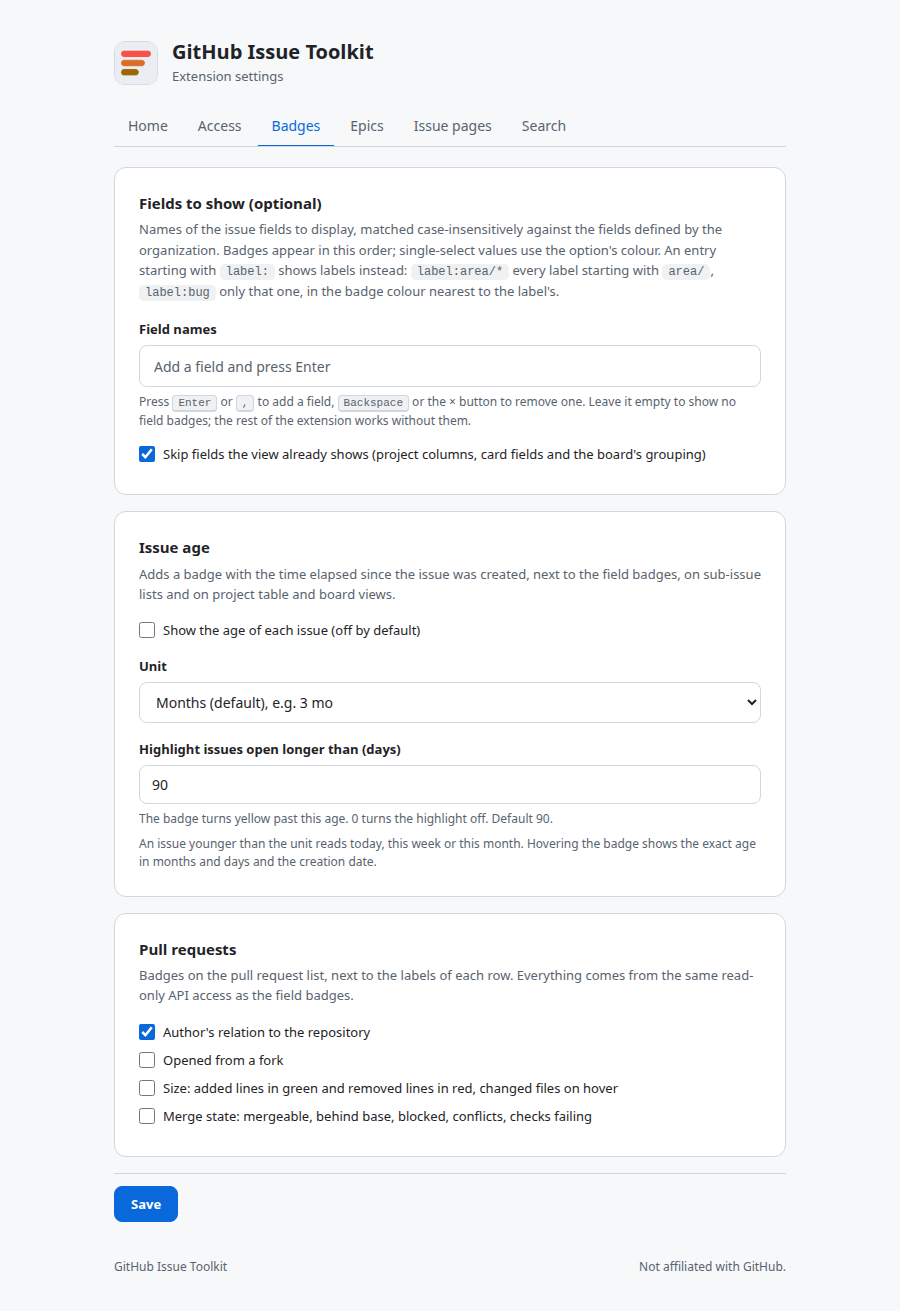
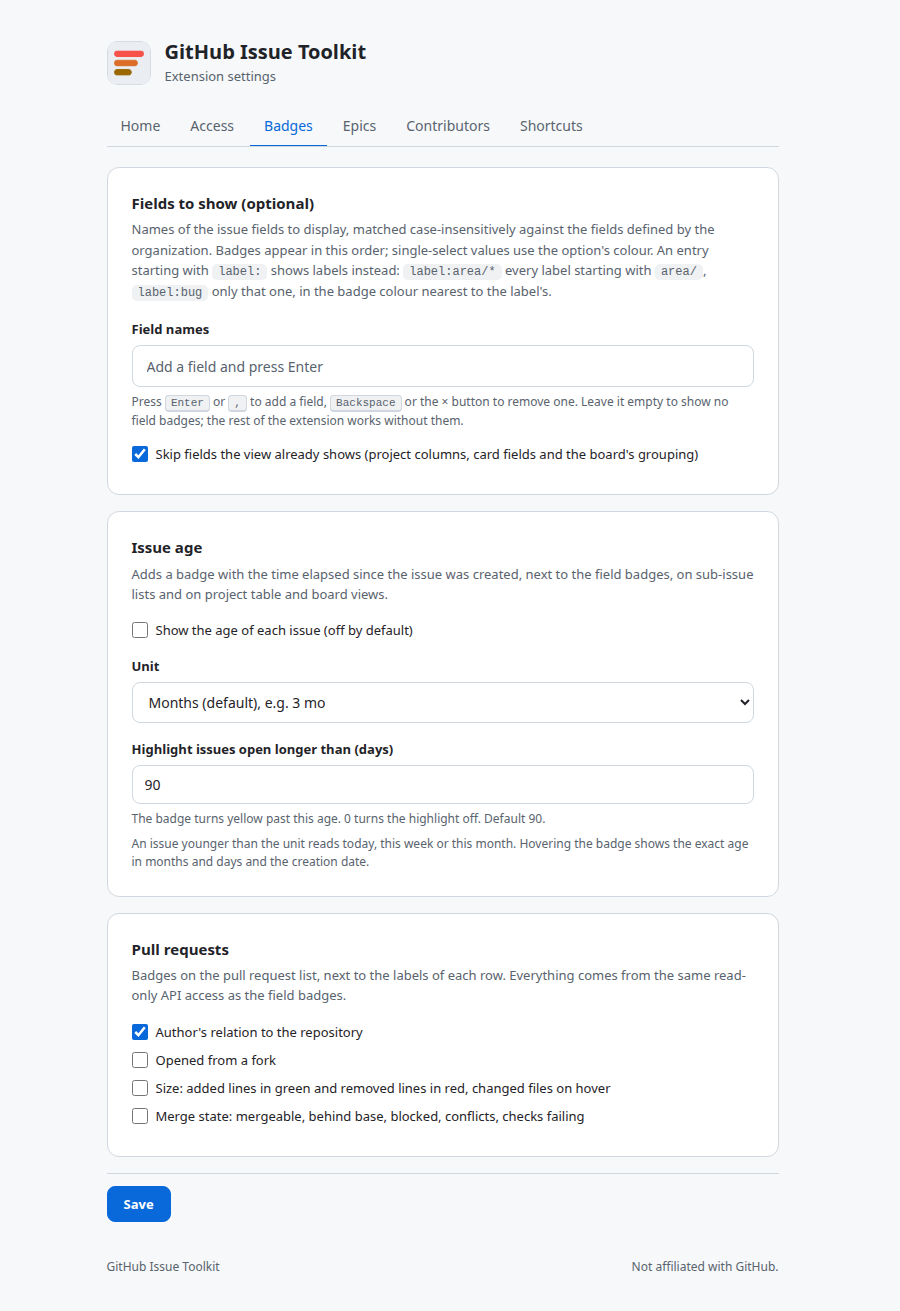
feat(settings): regroup the settings into tabs that fit what they change, and keep the layout from shifting
The contributor settings sat on a tab named for issue pages although they also apply to pull requests, the pinned issues button and the address bar search were on different tabs though both are shortcuts, and switching between a short and a long tab made the whole page jump sideways when the scrollbar came and went.

- Add a Contributors tab, split into the button, the statuses and limits, and a guide to reading the button
- Add a Shortcuts tab for the pinned issues button and the address bar search, and move the issue sidebar settings to Epics, since hiding the sidebar is what gives the board its room
- Drop the Issue pages and Search tabs, which a remembered tab from an earlier version falls back from to Badges
- Reserve the scrollbar gutter so the page stays put between tabs
- Update the Home map, the README, the site, the changelog and the settings screenshots to the new tabs

diff --git a/options.html b/options.html
@@ -50,6 +50,7 @@
         --red: #f85149;
       }
     }
+    html { scrollbar-gutter: stable; }
     * { box-sizing: border-box; }
     .only-dark { display: none; }
     @media (prefers-color-scheme: dark) { .only-dark { display: block; } .only-light { display: none; } }
@@ -67,6 +68,7 @@
     .marks .t b { color: var(--text-primary); font-weight: 600; }
     .marks i { font-style: normal; }
     .hint i { font-style: normal; }
+    .marks + .hint { margin-top: 14px; }
     .mk-icon { display: inline-flex; color: var(--text-secondary); padding: 0 6px; }
     .mk-pill { display: inline-flex; align-items: center; gap: 5px; padding: 0 8px; border: 1px solid var(--border-default); border-radius: 9999px; font-size: 12px; font-weight: 500; line-height: 18px; color: var(--text-secondary); }
     .mk-pill.mk-g { color: var(--green); border-color: var(--green); background: rgba(26, 127, 55, 0.12); }
@@ -196,8 +198,8 @@
       <button type="button" role="tab" id="tab-access" data-tab="access" aria-controls="panel-access">Access</button>
       <button type="button" role="tab" id="tab-badges" data-tab="badges" aria-controls="panel-badges">Badges</button>
       <button type="button" role="tab" id="tab-epics" data-tab="epics" aria-controls="panel-epics">Epics</button>
-      <button type="button" role="tab" id="tab-pages" data-tab="pages" aria-controls="panel-pages">Issue pages</button>
-      <button type="button" role="tab" id="tab-search" data-tab="search" aria-controls="panel-search">Search</button>
+      <button type="button" role="tab" id="tab-contributors" data-tab="contributors" aria-controls="panel-contributors">Contributors</button>
+      <button type="button" role="tab" id="tab-shortcuts" data-tab="shortcuts" aria-controls="panel-shortcuts">Shortcuts</button>
     </div>
 
     <div class="panel" id="panel-home" role="tabpanel" aria-labelledby="tab-home" hidden>
@@ -217,9 +219,9 @@
         <div class="tour">
           <button type="button" data-tab="access"><b>Access</b><span>Your personal access token and the site access Firefox asks for.</span></button>
           <button type="button" data-tab="badges"><b>Badges</b><span>Issue fields, issue age and pull request badges.</span></button>
-          <button type="button" data-tab="epics"><b>Epics</b><span>The kanban board, sub-issue progress and pinned issues.</span></button>
-          <button type="button" data-tab="pages"><b>Issue pages</b><span>Contributor load and the button that hides the issue sidebar.</span></button>
-          <button type="button" data-tab="search"><b>Search</b><span>Shortcuts for searching GitHub from the address bar with <code>@gh</code>.</span></button>
+          <button type="button" data-tab="epics"><b>Epics</b><span>The kanban board, sub-issue progress and the button that hides the issue sidebar.</span></button>
+          <button type="button" data-tab="contributors"><b>Contributors</b><span>Who a person is to the repository, on issues and pull requests.</span></button>
+          <button type="button" data-tab="shortcuts"><b>Shortcuts</b><span>The pinned issues button in GitHub's top bar and search from the address bar with <code>@gh</code>.</span></button>
         </div>
         <p class="hint">Each tab has a Save button at the bottom. Nothing leaves your browser except requests to <code>api.github.com</code>.</p>
       </section>
@@ -304,29 +306,34 @@
         <p class="hint">A sub-issue counts as done when this field has this value, <code>Stage</code> and <code>Done</code> for example. Leave both empty and a closed sub-issue is a done one. Needs a token that can read issue fields, like the badges.</p>
       </section>
       <section class="card">
-        <h2>Pinned issues</h2>
-        <p class="desc">A pin button in GitHub's top bar, next to the notifications bell, opens a panel with your pinned issues, for example epics. From there you can copy the reference or make the issue you are looking at a sub-issue of a pinned epic. Linking writes to GitHub, so the token needs write access to the issue's repository (the <code>repo</code> scope for classic tokens, <code>Issues: Read and write</code> for fine-grained ones).</p>
-        <label class="check"><input id="pins-enabled" type="checkbox"> Show the pinned issues button in GitHub's top bar</label>
-        <div class="actions" style="margin-top:12px">
-          <span id="pins-count" class="hint" style="margin:0"></span>
-          <button id="pins-clear" type="button">Remove all pins</button>
-        </div>
+        <h2>Issue sidebar</h2>
+        <p class="desc">A small button between the issue and its sidebar hides the whole metadata column, assignees, labels, type, fields, projects and the rest, giving the issue body and the kanban board the full width. The button stays in the same place either way, and what you choose holds on every issue until you press it again.</p>
+        <label class="check"><input id="sidebar-toggle" type="checkbox"> Show the button that hides the issue sidebar</label>
+        <label class="check" style="margin-top:8px"><input id="hide-projects" type="checkbox"> Hide the Projects section of the issue sidebar (off by default)</label>
+        <p class="hint">Takes GitHub's own Projects box, with its status and fields, out of the sidebar on every issue, while the rest of the sidebar stays. The issue remains in its projects; only the box is hidden.</p>
       </section>
     </div>
 
-    <div class="panel" id="panel-pages" role="tabpanel" aria-labelledby="tab-pages" hidden>
+    <div class="panel" id="panel-contributors" role="tabpanel" aria-labelledby="tab-contributors" hidden>
       <section class="card">
-        <h2>Contributor load</h2>
+        <h2>Contributor button</h2>
         <p class="desc">Adds a small button after a person's name on an issue or pull request. Press it to see who they are to this repository, new, returning or a regular, and what they already hold: pull requests merged, open or closed without merging, and issues assigned to them. Handy before you reply to a stranger or hand someone one more thing. Nothing is looked up until you press the button, each person is looked up once, and the answer stays until you close the tab.</p>
         <p class="hint" style="margin:0 0 14px">It looks like this next to a name: <i class="mk-pill"><svg viewBox="0 0 16 16" width="12" height="12" aria-hidden="true" fill="currentColor"><path d="M1.5 8.5h3v6h-3Zm5-7h3v13h-3Zm5 4h3v9h-3Z"/></svg> Contributor</i> and, once pressed, <i class="mk-pill mk-g">First PR here</i></p>
         <label class="check"><input id="load-enabled" type="checkbox"> Show the button after usernames (off by default)</label>
         <label class="check" style="margin-top:8px"><input id="load-auto" type="checkbox"> Look up the author and the assignees on their own, without pressing (off by default)</label>
         <p class="hint">Costs one request for each of them when an issue opens, and shows their status on sight. Everyone else is still looked up when you press their button.</p>
+      </section>
+      <section class="card">
+        <h2>Statuses and limits</h2>
+        <p class="desc">Two numbers decide what the button says about someone. Defaults are 5 and 1.</p>
         <label for="load-regular">Call someone a regular after (merged pull requests in this repository)</label>
         <input id="load-regular" type="number" min="1" step="1" inputmode="numeric" placeholder="5">
         <label for="load-limit">Flag anyone with more than (assigned issues)</label>
         <input id="load-limit" type="number" min="0" step="1" inputmode="numeric" placeholder="1">
-        <p class="hint">Defaults 5 and 1. The button reads like this:</p>
+      </section>
+      <section class="card">
+        <h2>Reading the button</h2>
+        <p class="desc">What each state of the button means.</p>
         <div class="marks">
           <span><i class="mk-pill"><svg viewBox="0 0 16 16" width="12" height="12" aria-hidden="true" fill="currentColor"><path d="M1.5 8.5h3v6h-3Zm5-7h3v13h-3Zm5 4h3v9h-3Z"/></svg> Contributor</i></span><span class="t"><b>Not looked up yet.</b> Press it to look the person up.</span>
           <span><i class="mk-pill mk-b"><svg viewBox="0 0 16 16" width="12" height="12" aria-hidden="true"><circle cx="8" cy="8" r="6" fill="none" stroke="currentColor" stroke-width="2" stroke-linecap="round" stroke-dasharray="26 12"/></svg> Looking up</i></span><span class="t">The ring turns while the answer is on its way.</span>
@@ -341,16 +348,18 @@
         </div>
         <p class="hint">The card the button opens has the numbers for the repository and for the whole organization, grouped as pull requests and issues, each a link to the matching GitHub search, then the open issues with the pull request that closes each, and how old the answer is with a refresh button beside it. Your own name gets no button. Counts cover the repositories your token can read, so a fine-grained token limited to a few repositories sees only those.</p>
       </section>
-      <section class="card">
-        <h2>Issue sidebar</h2>
-        <p class="desc">A small button between the issue and its sidebar hides the whole metadata column, assignees, labels, type, fields, projects and the rest, giving the issue body and the kanban board the full width. The button stays in the same place either way, and what you choose holds on every issue until you press it again.</p>
-        <label class="check"><input id="sidebar-toggle" type="checkbox"> Show the button that hides the issue sidebar</label>
-        <label class="check" style="margin-top:8px"><input id="hide-projects" type="checkbox"> Hide the Projects section of the issue sidebar (off by default)</label>
-        <p class="hint">Takes GitHub's own Projects box, with its status and fields, out of the sidebar on every issue, while the rest of the sidebar stays. The issue remains in its projects; only the box is hidden.</p>
-      </section>
     </div>
 
-    <div class="panel" id="panel-search" role="tabpanel" aria-labelledby="tab-search" hidden>
+    <div class="panel" id="panel-shortcuts" role="tabpanel" aria-labelledby="tab-shortcuts" hidden>
+      <section class="card">
+        <h2>Pinned issues</h2>
+        <p class="desc">A pin button in GitHub's top bar, next to the notifications bell, opens a panel with your pinned issues, for example epics. From there you can copy the reference or make the issue you are looking at a sub-issue of a pinned epic. Linking writes to GitHub, so the token needs write access to the issue's repository (the <code>repo</code> scope for classic tokens, <code>Issues: Read and write</code> for fine-grained ones).</p>
+        <label class="check"><input id="pins-enabled" type="checkbox"> Show the pinned issues button in GitHub's top bar</label>
+        <div class="actions" style="margin-top:12px">
+          <span id="pins-count" class="hint" style="margin:0"></span>
+          <button id="pins-clear" type="button">Remove all pins</button>
+        </div>
+      </section>
       <section class="card">
         <h2>Address bar search</h2>
         <p class="desc">Type <code>@gh</code> and a space in the address bar, then a shortcut name and the words to look for, for example <code>@gh repo flow</code>. Each shortcut searches one kind of item and adds its qualifiers to your words, so <code>org:acme</code> keeps the search inside one organization. A shortcut name on its own, <code>@gh pr</code>, lists what its qualifiers match right away. Text that does not start with a shortcut name goes to the default shortcut. Results appear as you type; Enter on the text itself opens the GitHub search page.</p>

diff --git a/docs/index.html b/docs/index.html
@@ -695,7 +695,7 @@
         <figcaption>The settings page follows your browser theme, light or dark.</figcaption>
       </figure>
       <h3 style="margin-top:28px">Tabs</h3>
-      <p class="muted" style="font-size:14px">The settings page is split into tabs: Home, Access, Badges, Epics, Issue pages and Search. Home is a short welcome with the state of your token and of the site access, and a map of the other tabs. It opens by itself the first time and not again once you pick another tab; after that the page opens on the tab you used last, and Home stays one click away. While there is no token, Home has an Add your token button that goes straight to the Access tab. A Save button sits at the bottom of every tab and saves all of them at once, so what you typed on one tab is kept while you look at another.</p>
+      <p class="muted" style="font-size:14px">The settings page is split into tabs: Home, Access, Badges, Epics, Contributors and Shortcuts. Home is a short welcome with the state of your token and of the site access, and a map of the other tabs. It opens by itself the first time and not again once you pick another tab; after that the page opens on the tab you used last, and Home stays one click away. While there is no token, Home has an Add your token button that goes straight to the Access tab. A Save button sits at the bottom of every tab and saves all of them at once, so what you typed on one tab is kept while you look at another.</p>
     </div>
   </section>
 

diff --git a/options.js b/options.js
@@ -39,7 +39,7 @@ const DEFAULT_SHORTCUTS = [
 ];
 const SHORTCUT_KINDS = { repo: "Repositories", issue: "Issues", pr: "Pull requests" };
 
-const TABS = ["home", "access", "badges", "epics", "pages", "search"];
+const TABS = ["home", "access", "badges", "epics", "contributors", "shortcuts"];
 const savebar = document.getElementById("savebar");
 let currentTab = "";
 

diff --git a/README.md b/README.md
@@ -165,12 +165,12 @@ Minimum version: Firefox 140, required by the `data_collection_permissions` mani
    - **Fine-grained**: https://github.com/settings/personal-access-tokens/new. Set the organization as resource owner, pick the repositories, and under Repository permissions set `Issues` to `Read-only` (or `Read and write` if you want to link issues to pinned epics from the panel, or drag cards on the kanban board).
 2. Open the **Access** tab, paste the token, click **Test token**, then **Save**.
 3. On the **Badges** tab, optionally add the **Field names** to show: each field is a chip, press Enter or comma to add one, Backspace or the × button to remove one. Names are matched case-insensitively. An entry starting with `label:` shows labels instead, `label:area/*` for every label starting with `area/` or `label:bug` for one, in the badge colour nearest to the label's own. With no field, no field badges are shown and nothing is asked of the API for them.
-4. Everything else is optional. On **Badges**: the **Issue age** badge (off by default), its unit and the age after which it turns yellow (90 days by default), and which **Pull request** badges you want (author relation on by default; fork, size and merge state off). On **Epics**: the **Epic kanban** toggle and dragging cards on it, whether to replace GitHub's **Sub-issue progress** with one that counts a scope (off by default), and the **Pinned issues** button in GitHub's top bar (kanban, dragging and pins on by default). On **Issue pages**: **Contributor load** and the limit above which someone is flagged (off by default, limit 1), the button that hides the **Issue sidebar** (on), and whether to hide the sidebar's **Projects** section (off). On **Search**: your **Address bar search** shortcuts (a `repo` and a `pr` one to start with).
+4. Everything else is optional. On **Badges**: the **Issue age** badge (off by default), its unit and the age after which it turns yellow (90 days by default), and which **Pull request** badges you want (author relation on by default; fork, size and merge state off). On **Epics**: the **Epic kanban** toggle and dragging cards on it, whether to replace GitHub's **Sub-issue progress** with one that counts a scope (off by default), the button that hides the **Issue sidebar** (on), and whether to hide the sidebar's **Projects** section (off). On **Contributors**: **Contributor load**, the number of merged pull requests that makes someone a regular (5) and the limit above which someone is flagged (off by default, limit 1). On **Shortcuts**: the **Pinned issues** button in GitHub's top bar (on) and your **Address bar search** shortcuts (a `repo` and a `pr` one to start with).
 5. Open any issue with sub-issues, or a project view such as `https://github.com/orgs/<org>/projects/<n>/views/<v>`.
 
 ### Settings tabs
 
-The toolbar icon opens the settings page, which is split into tabs: Home, Access, Badges, Epics, Issue pages and Search. Home is a short welcome with the state of your token and of the site access, and a map of the other tabs. It opens by itself the first time and not again once you pick another tab; after that the page opens on the tab you used last, and Home stays one click away. While there is no token, Home has an Add your token button that goes straight to the Access tab. A Save button sits at the bottom of every tab and saves all of them at once, so what you typed on one tab is kept while you look at another.
+The toolbar icon opens the settings page, which is split into tabs: Home, Access, Badges, Epics, Contributors and Shortcuts. Home is a short welcome with the state of your token and of the site access, and a map of the other tabs. It opens by itself the first time and not again once you pick another tab; after that the page opens on the tab you used last, and Home stays one click away. While there is no token, Home has an Add your token button that goes straight to the Access tab. A Save button sits at the bottom of every tab and saves all of them at once, so what you typed on one tab is kept while you look at another.
 
 ### Epic kanban
 

diff --git a/CHANGELOG.md b/CHANGELOG.md
@@ -15,7 +15,7 @@ All notable changes to this project are documented here. The format follows [Kee
 - Nothing is read for a contributor until their button is pressed, where hovering a name used to read it. Hovering only gives a name its button. A person is read once per repository and kept until the tab is closed instead of ten minutes, the card says how old the answer is, and its refresh button reads one person again. Changing a setting no longer forgets what was read.
 - The button is easier to see: it is a bordered **Contributor** button with an icon before it is pressed, and while the person is being looked up it turns blue and shows a turning ring and the words **Looking up**. The card groups its numbers as pull requests and issues, and its refresh button sits beside the age of the answer.
 - The outlined and filled dots are gone: an unread person is an icon, a read one is a status, and the amber count for someone over the assigned limit stays beside it.
-- The settings page is split into tabs, Home, Access, Badges, Epics, Issue pages and Search, instead of one long page. Home is a short welcome with the state of the token and of the site access and a map of the other tabs; it has an Add your token button to the Access tab while there is no token, it opens by itself the first time and not again once another tab is picked, after which the page opens on the tab used last. A Save button stays at the bottom of every tab and saves all of them at once.
+- The settings page is split into tabs, Home, Access, Badges, Epics, Contributors and Shortcuts, instead of one long page. Home is a short welcome with the state of the token and of the site access and a map of the other tabs; it has an Add your token button to the Access tab while there is no token, it opens by itself the first time and not again once another tab is picked, after which the page opens on the tab used last. A Save button stays at the bottom of every tab and saves all of them at once.
 - The toolbar icon opens the settings page again, as it did before 2.10.0.
 
 ### Removed
